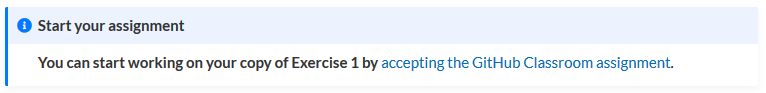
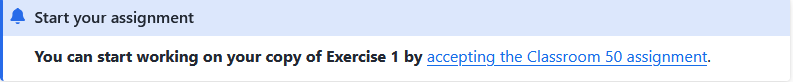
Exercise 2 link added - classroom page replace with 50

Changed region(s): [[0.0, 0.0, 1.0, 1.0]]

diff --git a/source/lessons/L2/GitHub-classroom.rst b/source/lessons/L2/GitHub-classroom.rst
@@ -1,14 +1,13 @@
-Using Classroom for Github
-==========================
-
-As you have seen last week we will be using `Classroom for GitHub <https://classroom.github.com>`__ for the exercises in the course.
+Using Classroom 50 for GitHub
+==============================
+As you have seen last week, we will be using `Classroom 50 <https://classroom50.org/>`__ for the exercises in the course.
 Here, we'll give you a sense of how Classroom for GitHub works and what you need to do to accept your assignments.
 
-Classroom for GitHub
---------------------
+Classroom 50
+------------
+Classroom 50 is basically an application that helps you make private copies of an assignment that you can modify and submit as your answers for the exercises.
+We will create a template repository for each assignment, and Classroom 50 takes care of the student copies.
 
-Classroom for GitHub is basically an application that helps you make private copies of an assignment that you can modify and submit as your answers for the exercises.
-We will create a template repository for each assignment, and GitHub classroom takes care of the student copies.
 The exercise repositories normally include the following:
 
 -  A basic description of the assignment
@@ -16,21 +15,20 @@ The exercise repositories normally include the following:
 -  "Starter" Jupyter notebook or Python code that you need to modify for the assignment
 -  Data files to use with the code
 
-You can find the GitHub classroom link for each exercise on these web pages in
+You can find the classroom link for each exercise on these web pages in
 the **Start your assignment** info box on the exercise pages.
 
 .. figure:: img/start-assignment.png
+   :alt: Start your assignment info box
 
-When you click the GitHub classroom link, you will be taken to a web page where you can accept the assignment.
+When you click the Classroom 50 link, you will be taken to a web page where you can accept the assignment.
 
 .. note::
+   In order to accept an assignment, you must be enrolled in the course organization. Follow your teacher's instructions on how to do this.
 
-   Note that the first time you accept an assignment you will need to authorize the application on Github. This will not work if you have not verified your email address for your Github account.
+.. figure:: img/classroom50_create_repository.png
+   :alt: Creating an exercise repository using Classroom 50
 
-.. figure:: img/github_classroom_create_repository.png
-   :alt: Creating an exercise repository using GitHub Classroom
+   Creating an exercise repository using Classroom 50
 
-   Creating an exercise repository using GitHub Classroom
-
-When you accept the assignment a copy of it will be made in your personal GitHub repositories (a repository on Github is basically like a folder for a given assignment/project), and you will be asked to make changes to the Python code and main document for each assignment.
-
+When you accept the assignment, a copy of it will be made in your personal GitHub repositories (a repository on GitHub is basically like a folder for a given assignment/project), and you will be asked to make changes to the Python code and main document for each assignment.

diff --git a/source/lessons/L2/exercise-2.rst b/source/lessons/L2/exercise-2.rst
@@ -7,7 +7,7 @@ Exercise 2
 
 .. admonition:: Start your assignment
 
-    **You can start working on your copy of Exercise 2 by** `accepting the GitHub Classroom assignment <https://classroom.github.com/a/EqiMDJtk>`__.
+    **You can start working on your copy of Exercise 2 by** `accepting the Classroom 50 assignment <https://classroom50.org/Geo-Python-2026/fall-2026/assignments/exercise-2/accept>`__.
 
 .. admonition:: Autograding in use
 
@@ -15,7 +15,7 @@ Exercise 2
     When you push your work to the repository, feedback will be provided in a pull-request. You can push your changes as many times as needed and this won't affect your final grade. This may take a couple of minutes. For the autgrading system to work, do not add, delete, or duplicate any cells in the exercise notebook
 
 
-You can also take a look at the template repository for `Exercise 2 on GitHub <https://github.com/Geo-Python-2025/Exercise-2>`__ (does not require logging in).
+You can also take a look at the template repository for `Exercise 2 on GitHub <https://github.com/Geo-Python-2026/Exercise-2>`__ (does not require logging in).
 Note that you should not try to make changes to this copy of the exercise, but rather only to the copy available via GitHub Classroom.
 
 .. admonition:: Pair programming
